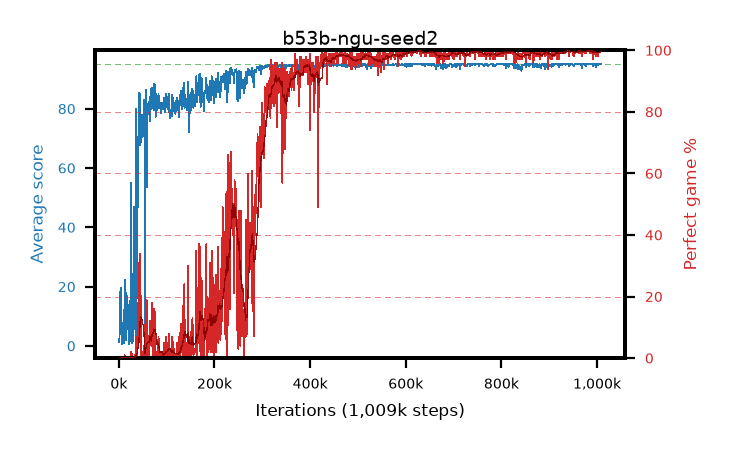
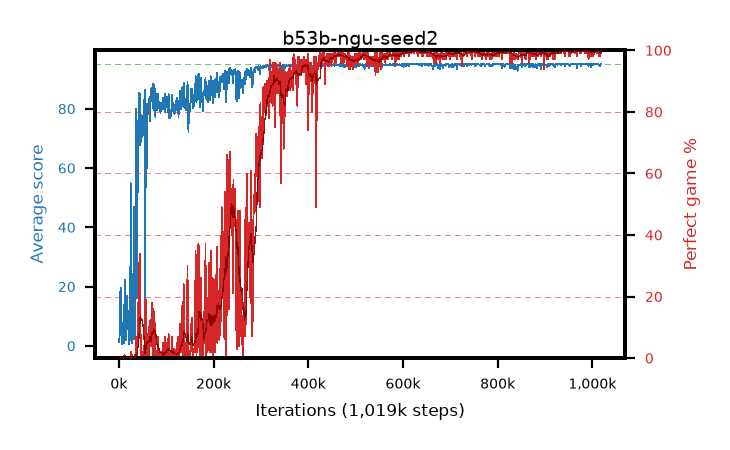
live pictures of 4 arm(s)

diff --git a/results/b53c-ngu-seed3/b53c-ngu-seed3.md b/results/b53c-ngu-seed3/b53c-ngu-seed3.md
@@ -1,6 +1,6 @@
 # b53c-ngu-seed3
 
-step **1,009,000** · 1009 evals · trailing **94.66** · peak **94.93** @574,000 · sef **77.3** · best30 **99.6** @585,000
+step **1,019,000** · 1019 evals · trailing **94.71** · peak **94.93** @574,000 · sef **77.5** · best30 **99.6** @585,000
 
 ## Config
 
@@ -80,15 +80,15 @@ step **1,009,000** · 1009 evals · trailing **94.66** · peak **94.93** @574,00
 | 2000 | 6.19 | 3.38 | 0.0 | 14.0 | 2.147 | 0.0 | 0.4 |
 | 3000 | 12.02 | 6.26 | 1.0 | 18.0 | 7.496 | 0.0 | 0.4 |
 | ... | ... | ... | ... | ... | ... | ... | ... |
-| 998000 | 95.0 | 94.49 | 95.0 | 95.0 | 193.705 | 100.0 | 0.4 |
-| 999000 | 94.99 | 94.52 | 94.0 | 95.0 | 192.641 | 99.0 | 0.4 |
-| 1000000 | 93.95 | 94.51 | 24.0 | 95.0 | 190.608 | 98.0 | 0.4 |
-| 1001000 | 94.72 | 94.54 | 67.0 | 95.0 | 192.406 | 99.0 | 0.4 |
-| 1002000 | 94.98 | 94.57 | 93.0 | 95.0 | 192.632 | 99.0 | 0.4 |
-| 1003000 | 95.0 | 94.64 | 95.0 | 95.0 | 193.695 | 100.0 | 0.4 |
-| 1004000 | 95.0 | 94.69 | 95.0 | 95.0 | 193.703 | 100.0 | 0.4 |
-| 1005000 | 94.95 | 94.72 | 92.0 | 95.0 | 191.599 | 98.0 | 0.4 |
-| 1006000 | 94.9 | 94.71 | 87.0 | 95.0 | 191.505 | 98.0 | 0.4 |
-| 1007000 | 94.95 | 94.71 | 92.0 | 95.0 | 191.654 | 98.0 | 0.4 |
 | 1008000 | 93.49 | 94.67 | 17.0 | 95.0 | 190.115 | 98.0 | 0.4 |
 | 1009000 | 94.17 | 94.66 | 12.0 | 95.0 | 191.826 | 99.0 | 0.4 |
+| 1010000 | 94.02 | 94.65 | 14.0 | 95.0 | 190.679 | 98.0 | 0.4 |
+| 1011000 | 94.93 | 94.72 | 88.0 | 95.0 | 192.642 | 99.0 | 0.4 |
+| 1012000 | 92.8 | 94.69 | 6.0 | 95.0 | 188.391 | 97.0 | 0.4 |
+| 1013000 | 94.97 | 94.69 | 92.0 | 95.0 | 192.675 | 99.0 | 0.4 |
+| 1014000 | 95.0 | 94.7 | 95.0 | 95.0 | 193.707 | 100.0 | 0.4 |
+| 1015000 | 95.0 | 94.7 | 95.0 | 95.0 | 193.704 | 100.0 | 0.4 |
+| 1016000 | 95.0 | 94.7 | 95.0 | 95.0 | 193.707 | 100.0 | 0.4 |
+| 1017000 | 95.0 | 94.7 | 95.0 | 95.0 | 193.706 | 100.0 | 0.4 |
+| 1018000 | 95.0 | 94.71 | 95.0 | 95.0 | 193.701 | 100.0 | 0.4 |
+| 1019000 | 95.0 | 94.71 | 95.0 | 95.0 | 193.705 | 100.0 | 0.4 |

diff --git a/results/b53b-ngu-seed2/b53b-ngu-seed2.md b/results/b53b-ngu-seed2/b53b-ngu-seed2.md
@@ -1,6 +1,6 @@
 # b53b-ngu-seed2
 
-step **1,009,000** · 1009 evals · trailing **94.9** · peak **94.95** @633,000 · sef **69.1** · best30 **99.8** @983,000
+step **1,019,000** · 1019 evals · trailing **94.88** · peak **94.95** @633,000 · sef **69.4** · best30 **99.8** @983,000
 
 ## Config
 
@@ -80,15 +80,15 @@ step **1,009,000** · 1009 evals · trailing **94.9** · peak **94.95** @633,000
 | 2000 | 6.04 | 3.73 | 0.0 | 19.0 | 3.28 | 0.0 | 0.4 |
 | 3000 | 18.06 | 8.5 | 1.0 | 40.0 | 15.298 | 0.0 | 0.4 |
 | ... | ... | ... | ... | ... | ... | ... | ... |
-| 998000 | 94.2 | 94.89 | 15.0 | 95.0 | 191.874 | 99.0 | 0.4 |
-| 999000 | 95.0 | 94.89 | 95.0 | 95.0 | 193.729 | 100.0 | 0.4 |
-| 1000000 | 95.0 | 94.89 | 95.0 | 95.0 | 193.71 | 100.0 | 0.4 |
-| 1001000 | 94.96 | 94.89 | 91.0 | 95.0 | 192.671 | 99.0 | 0.4 |
-| 1002000 | 94.84 | 94.88 | 85.0 | 95.0 | 191.452 | 98.0 | 0.4 |
-| 1003000 | 94.93 | 94.88 | 88.0 | 95.0 | 192.625 | 99.0 | 0.4 |
-| 1004000 | 95.0 | 94.88 | 95.0 | 95.0 | 193.721 | 100.0 | 0.4 |
-| 1005000 | 95.0 | 94.88 | 95.0 | 95.0 | 193.722 | 100.0 | 0.4 |
-| 1006000 | 95.0 | 94.9 | 95.0 | 95.0 | 193.692 | 100.0 | 0.4 |
-| 1007000 | 95.0 | 94.9 | 95.0 | 95.0 | 193.704 | 100.0 | 0.4 |
 | 1008000 | 95.0 | 94.9 | 95.0 | 95.0 | 193.709 | 100.0 | 0.4 |
 | 1009000 | 95.0 | 94.9 | 95.0 | 95.0 | 193.698 | 100.0 | 0.4 |
+| 1010000 | 94.96 | 94.9 | 91.0 | 95.0 | 192.618 | 99.0 | 0.4 |
+| 1011000 | 95.0 | 94.9 | 95.0 | 95.0 | 193.702 | 100.0 | 0.4 |
+| 1012000 | 94.97 | 94.9 | 92.0 | 95.0 | 192.653 | 99.0 | 0.4 |
+| 1013000 | 95.0 | 94.9 | 95.0 | 95.0 | 193.723 | 100.0 | 0.4 |
+| 1014000 | 94.88 | 94.9 | 84.0 | 95.0 | 191.503 | 98.0 | 0.4 |
+| 1015000 | 94.97 | 94.9 | 92.0 | 95.0 | 192.674 | 99.0 | 0.4 |
+| 1016000 | 94.47 | 94.88 | 46.0 | 95.0 | 191.107 | 98.0 | 0.4 |
+| 1017000 | 95.0 | 94.88 | 95.0 | 95.0 | 193.711 | 100.0 | 0.4 |
+| 1018000 | 94.98 | 94.88 | 93.0 | 95.0 | 192.66 | 99.0 | 0.4 |
+| 1019000 | 95.0 | 94.88 | 95.0 | 95.0 | 193.725 | 100.0 | 0.4 |
